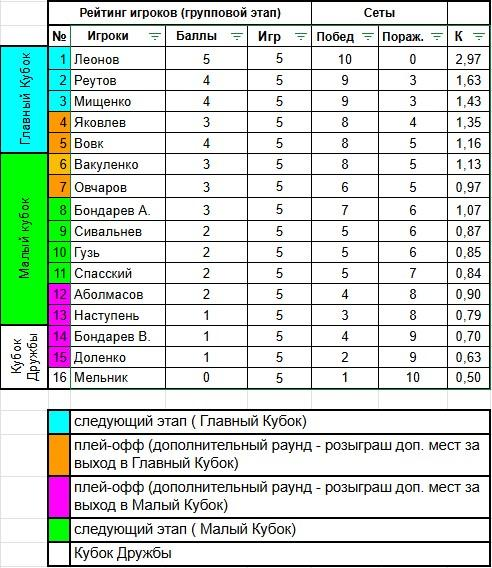
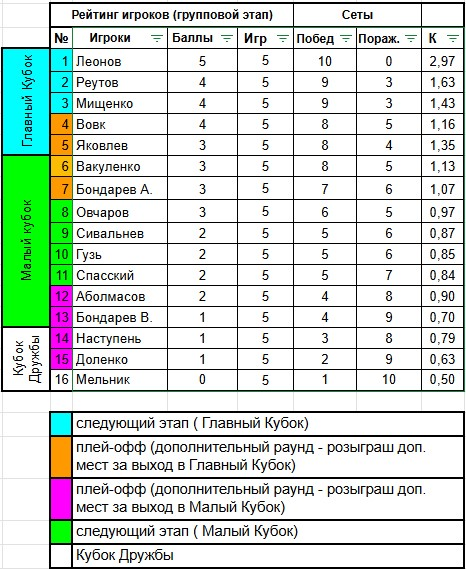
add info for players in little cup

diff --git a/fourthTourn.html b/fourthTourn.html
@@ -194,10 +194,10 @@
                             <p class="text">Яковлев - Вовк</p>
                             <div class="players-sets-points">
                                 <ul class="players-sets-list">
-                                    <li class="sets-item"><span>11</span>/<span>8</span></li>
+                                    <!-- <li class="sets-item"><span>11</span>/<span>8</span></li>
                                     <li class="sets-item"><span>4</span>/<span>11</span></li>
                                     <li class="sets-item"><span>4</span>/<span>11</span></li>
-                                    <li class="sets-item"><span>10</span>/<span>12</span></li>
+                                    <li class="sets-item"><span>10</span>/<span>12</span></li> -->
                                     <!-- <li class="sets-item"><span>8</span>/<span>11</span></li> -->
                                     <li class="sets-item sets-item-result"><span class="lose">1</span>/<span class="win">3</span></li>
                                 </ul>
@@ -207,10 +207,10 @@
                             <p class="text">Бондарев А. - Вакуленко</p>
                             <div class="players-sets-points">
                                 <ul class="players-sets-list">
-                                    <li class="sets-item"><span>8</span>/<span>11</span></li>
+                                    <!-- <li class="sets-item"><span>8</span>/<span>11</span></li>
                                     <li class="sets-item"><span>11</span>/<span>9</span></li>
                                     <li class="sets-item"><span>5</span>/<span>11</span></li>
-                                    <li class="sets-item"><span>5</span>/<span>11</span></li>
+                                    <li class="sets-item"><span>5</span>/<span>11</span></li> -->
                                     <!-- <li class="sets-item"><span>5</span>/<span>11</span></li> -->
                                     <li class="sets-item sets-item-result"><span class="lose">1</span>/<span class="win">3</span></li>
                                 </ul>
@@ -252,7 +252,7 @@
                 <h3 class="third-title">Результаты розыграша по Кубкам</h3>
                 <div class="cups-box">
                     <h4 class="third-title">Главный Кубок🏓</h4>
-                    <img src=".//img/tournament-3/main-cup-result.jpg" alt="">
+                    <img src=".//img/tournament-4/main_cup-result.jpg" alt="">
                     <div class="cups-players-tumb">
                         <h4 class="third-title">Финальные матчи</h4>
                         <h4 class="third-title cup-title">Игра за 3-е место</h4>
@@ -337,10 +337,10 @@
                 </div>
             </div>
 
-            <!-- <div class="container cup-little">
+            <div class="container cup-little">
                 <div class="cups-box">
                     <h4 class="third-title">Малый Кубок🏓</h4>
-                    <img src=".//img/tournament-3/little-cap-final.jpg" alt="">
+                    <img src=".//img/tournament-4/Map_little_cup.jpg" alt="">
                     <div class="cups-players-tumb">
                         <h4 class="third-title">Финальные матчи</h4>
                         <h4 class="third-title cup-title">Игра за 3-е место</h4>
@@ -350,32 +350,32 @@
                                 <div class="player-box-info">
                                     <p class="text player-name">Овчаров Дмитрий</p>
                                     <p class="text">Статистика турнира:</p>
-                                    <p class="text">Побед: 5/9</p>
-                                    <p class="text">Эфективность: 54%</p>
-                                    <p class="text">(Сеты 28; <span class="win">Побед 15</span>;
-                                        <span class="lose"> Поражений 13</span>)
+                                    <p class="text">Побед: 5/8</p>
+                                    <p class="text">Эфективность: 58%</p>
+                                    <p class="text">(Сеты 17; <span class="win">Побед 10</span>;
+                                        <span class="lose"> Поражений 7</span>)
                                 </div>
                             </div>
                     
                             <div class="players-sets-points">
                                 <ul class="players-sets-list">
-                                    <li class="sets-item"><span>11</span>/<span>4</span></li>
-                                    <li class="sets-item"><span>11</span>/<span>6</span></li>
-                                    <li class="sets-item"><span>11</span>/<span>13</span></li>
-                                    <li class="sets-item"><span>11</span>/<span>4</span></li>
-                                    <li class="sets-item sets-item-result"><span class="win">3</span>/<span class="lose">1</span></li>
+                                    <li class="sets-item"><span>-</span>/<span>-</span></li>
+                                    <li class="sets-item"><span>-</span>/<span>-</span></li>
+                                    <li class="sets-item"><span>-</span>/<span>-</span></li>
+                                    <li class="sets-item"><span>-</span>/<span>-</span></li>
+                                    <!-- <li class="sets-item sets-item-result"><span class="win">3</span>/<span class="lose">1</span></li> -->
                                 </ul>
                             </div>
                     
                             <div class="player-box">
                                 <img src=".//img/players/avatar.jpg" alt="">
                                 <div class="player-box-info">
-                                    <p class="text player-name">Наступень Тимур</p>
+                                    <p class="text player-name">Сивальнев Алексей</p>
                                     <p class="text">Статистика турнира:</p>
-                                    <p class="text">Побед: 6/10</p>
-                                    <p class="text">Эфективность: 50%</p>
-                                    <p class="text">(Сеты 34; <span class="win">Побед 17</span>;
-                                        <span class="lose"> Поражений 17</span>)
+                                    <p class="text">Побед: 4/8</p>
+                                    <p class="text">Эфективность: 43%</p>
+                                    <p class="text">(Сеты 21; <span class="win">Побед 9</span>;
+                                        <span class="lose"> Поражений 12</span>)
                                 </div>
                             </div>
                     
@@ -384,43 +384,43 @@
                         <h4 class="third-title cup-title">Игра за 1-е место</h4>
                         <div class="preview-game">
                             <div class="player-box">
-                                <img src=".//img/players/Reutov.jpg" alt="">
+                                <img src=".//img/players/avatar.jpg" alt="">
                                 <div class="player-box-info">
-                                    <p class="text player-name">Реутов Александр</p>
+                                    <p class="text player-name">Яковлев Андрей</p>
                                     <p class="text">Статистика турнира:</p>
-                                    <p class="text">Побед: 7/10</p>
-                                    <p class="text">Эфективность: 75%</p>
-                                    <p class="text">(Сеты 32; <span class="win">Побед 24</span>;
+                                    <p class="text">Побед: 6/9</p>
+                                    <p class="text">Эфективность: 65%</p>
+                                    <p class="text">(Сеты 23; <span class="win">Побед 15</span>;
                                         <span class="lose"> Поражений 8</span>)
                                 </div>
                             </div>
                     
                             <div class="players-sets-points">
                                 <ul class="players-sets-list">
-                                    <li class="sets-item"><span>11</span>/<span>5</span></li>
-                                    <li class="sets-item"><span>11</span>/<span>5</span></li>
-                                    <li class="sets-item"><span>9</span>/<span>11</span></li>
-                                    <li class="sets-item"><span>11</span>/<span>4</span></li>
-                                    <li class="sets-item sets-item-result"><span class="win">3</span>/<span class="lose">1</span></li>
+                                    <li class="sets-item"><span>-</span>/<span>-</span></li>
+                                    <li class="sets-item"><span>-</span>/<span>-</span></li>
+                                    <li class="sets-item"><span>-</span>/<span>-</span></li>
+                                    <li class="sets-item"><span>-</span>/<span>-</span></li>
+                                    <!-- <li class="sets-item sets-item-result"><span class="win">3</span>/<span class="lose">1</span></li> -->
                                 </ul>
                             </div>
                     
                             <div class="player-box">
-                                <img src=".//img/players/Shkola.jpg" alt="">
+                                <img src=".//img/players/Spaskiy.jpg" alt="">
                                 <div class="player-box-info">
-                                    <p class="text player-name">Школа Юрий</p>
+                                    <p class="text player-name">Спасский Олег/p>
                                     <p class="text">Статистика турнира:</p>
-                                    <p class="text">Побед: 8/11</p>
-                                    <p class="text">Эфективность: 64%</p>
-                                    <p class="text">(Сеты 36; <span class="win">Побед 23</span>;
-                                        <span class="lose"> Поражений 13</span>)
+                                    <p class="text">Побед: 4/9</p>
+                                    <p class="text">Эфективность: 55%</p>
+                                    <p class="text">(Сеты 22; <span class="win">Побед 12</span>;
+                                        <span class="lose"> Поражений 10</span>)
                                 </div>
                             </div>
                     
                         </div>
                     </div>
                 </div>
-            </div> -->
+            </div>
                 
             
             <!-- <div class="container cup-friends">

diff --git a/CSS/style.css b/CSS/style.css
@@ -574,10 +574,18 @@ p {
     font-size:  26px;
 }
 
+.result-item {
+    display: flex;
+    flex-direction: column;
+    align-items: center;
+}
+
+.result-list {
+    display: flex;
+    justify-content: space-around;
+}
+
 @media (max-width: 767px) {
-    /* .result-tumb {
-        text-align: center;
-    } */
 
     .result-group-img {
         margin: 0 auto;
@@ -594,10 +602,10 @@ p {
         justify-content: space-around;
     }
     
-    .result-list {
+    /* .result-list {
         display: flex;
         justify-content: space-between;
-    }
+    } */
     
     /* .result-item {
         width: calc((100% - 20px) / 2);
